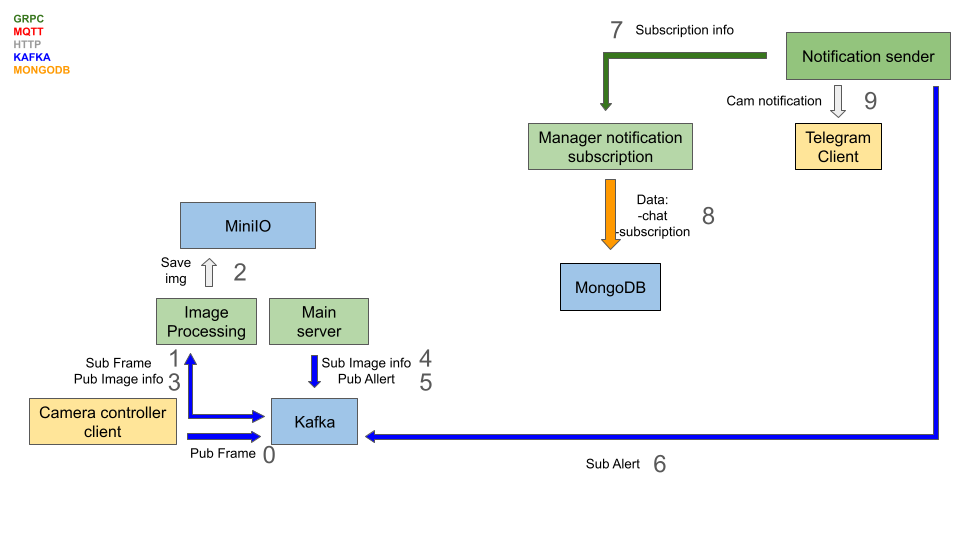
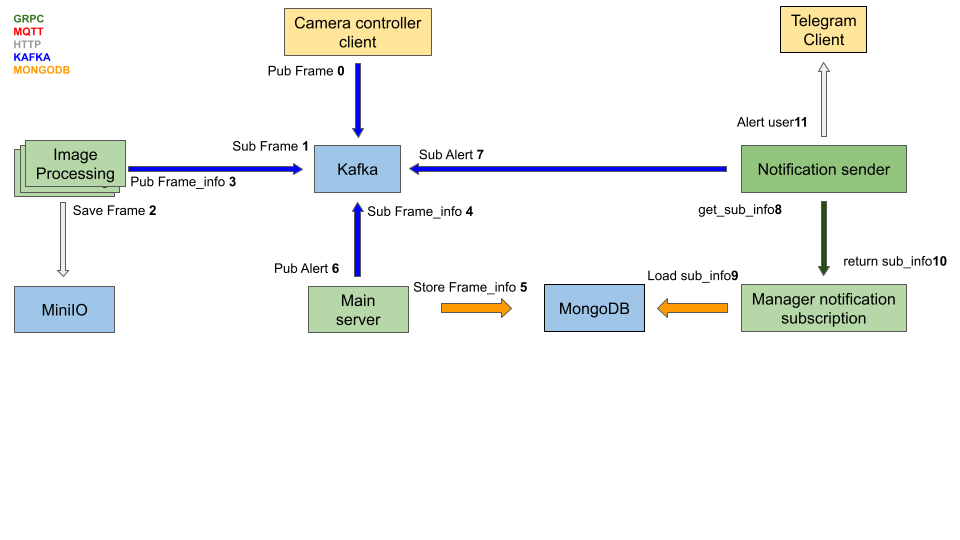
CommunicationScheme

Changed region(s): [[0.0, 0.0, 1.0, 0.8889], [0.0, 0.5037, 0.125, 0.6222]]

diff --git a/README.md b/README.md
@@ -464,6 +464,14 @@ Le funzionalità di modellamento e stima della probabilità di superamento del v
 
 ![User image access.png](Miscellaneous/ComunicationScheme%20/User%20image%20access.png)
 
+#### 3. Modifica sottoscrizione alle notifiche
+
+![Nofification_sub_update.png](Miscellaneous/ComunicationScheme%20/Nofification_sub_update.png)
+
+#### 4. Invio comando alla telecamera
+
+![Send_command_to_camera.png](Miscellaneous/ComunicationScheme%20/Send_command_to_camera.png)
+
 ---
 
 ### **Archiviazione Coerente dei Dati con MongoDB:**
